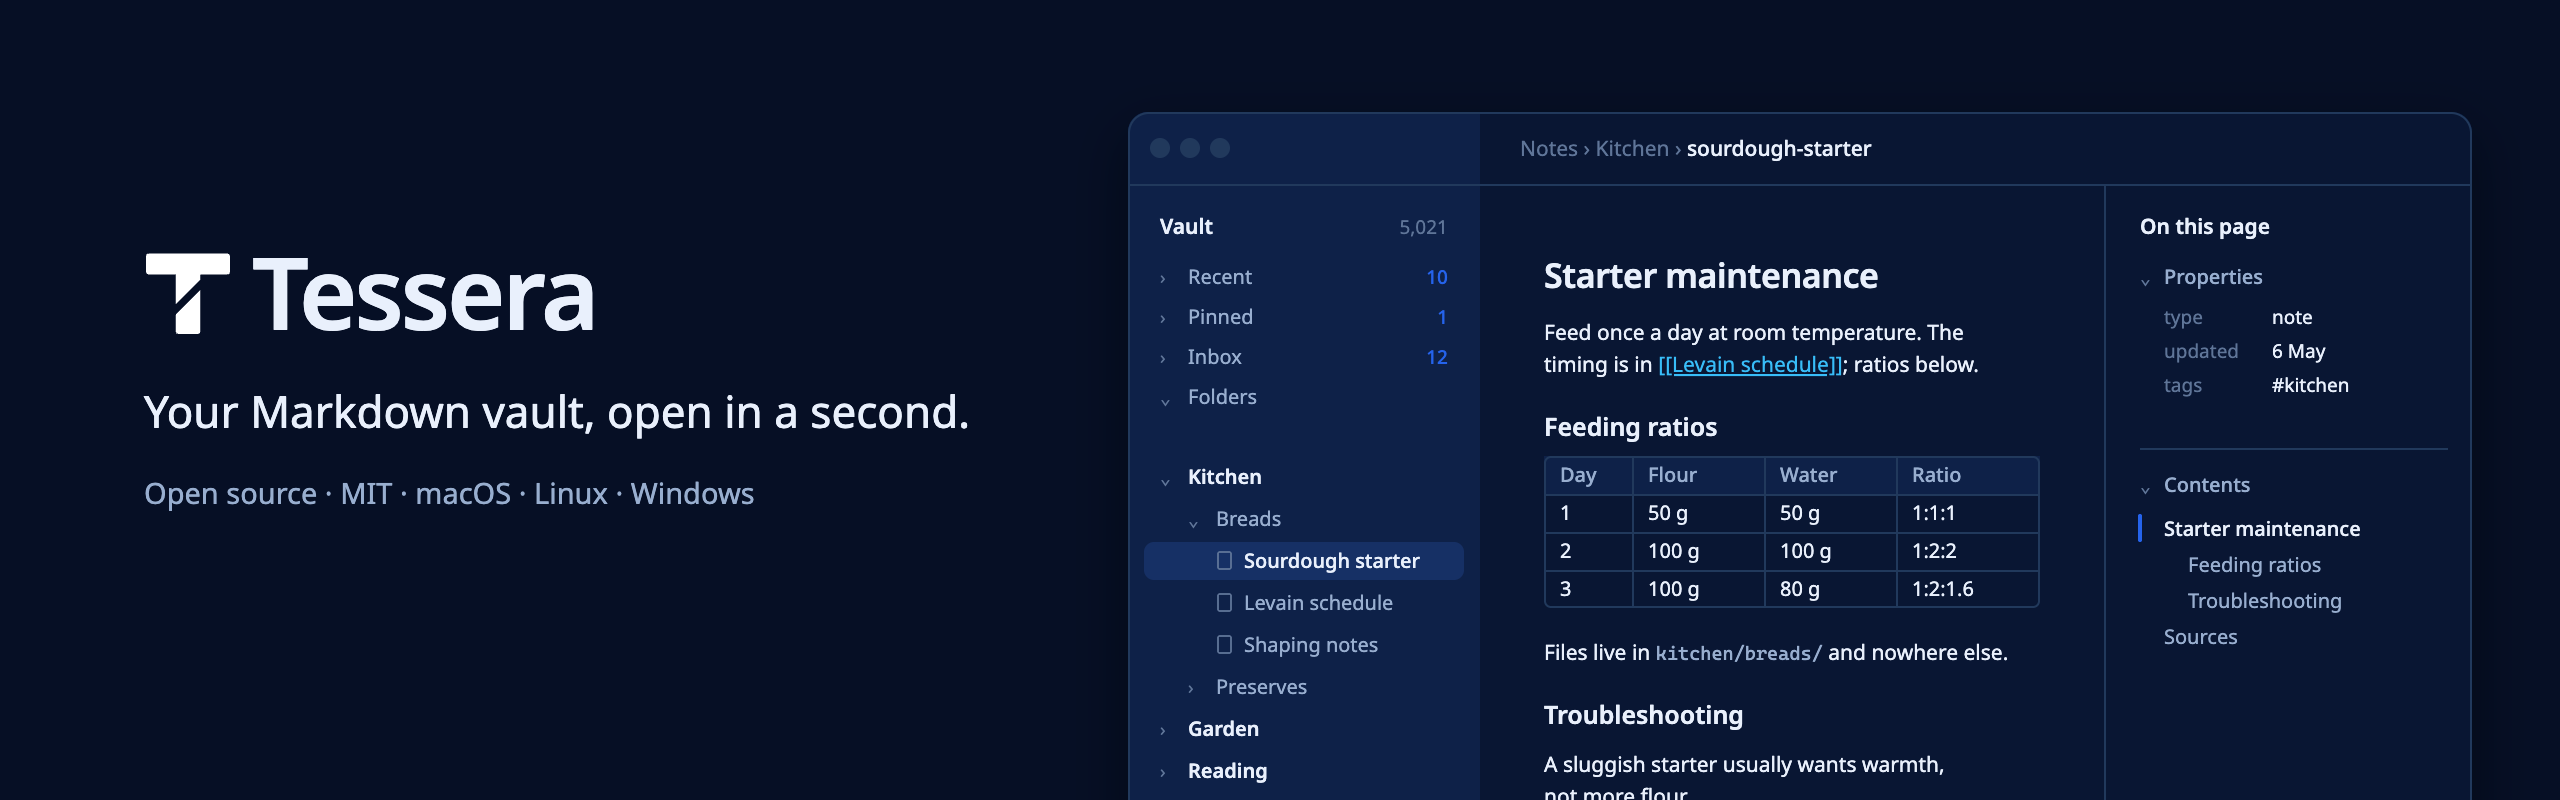
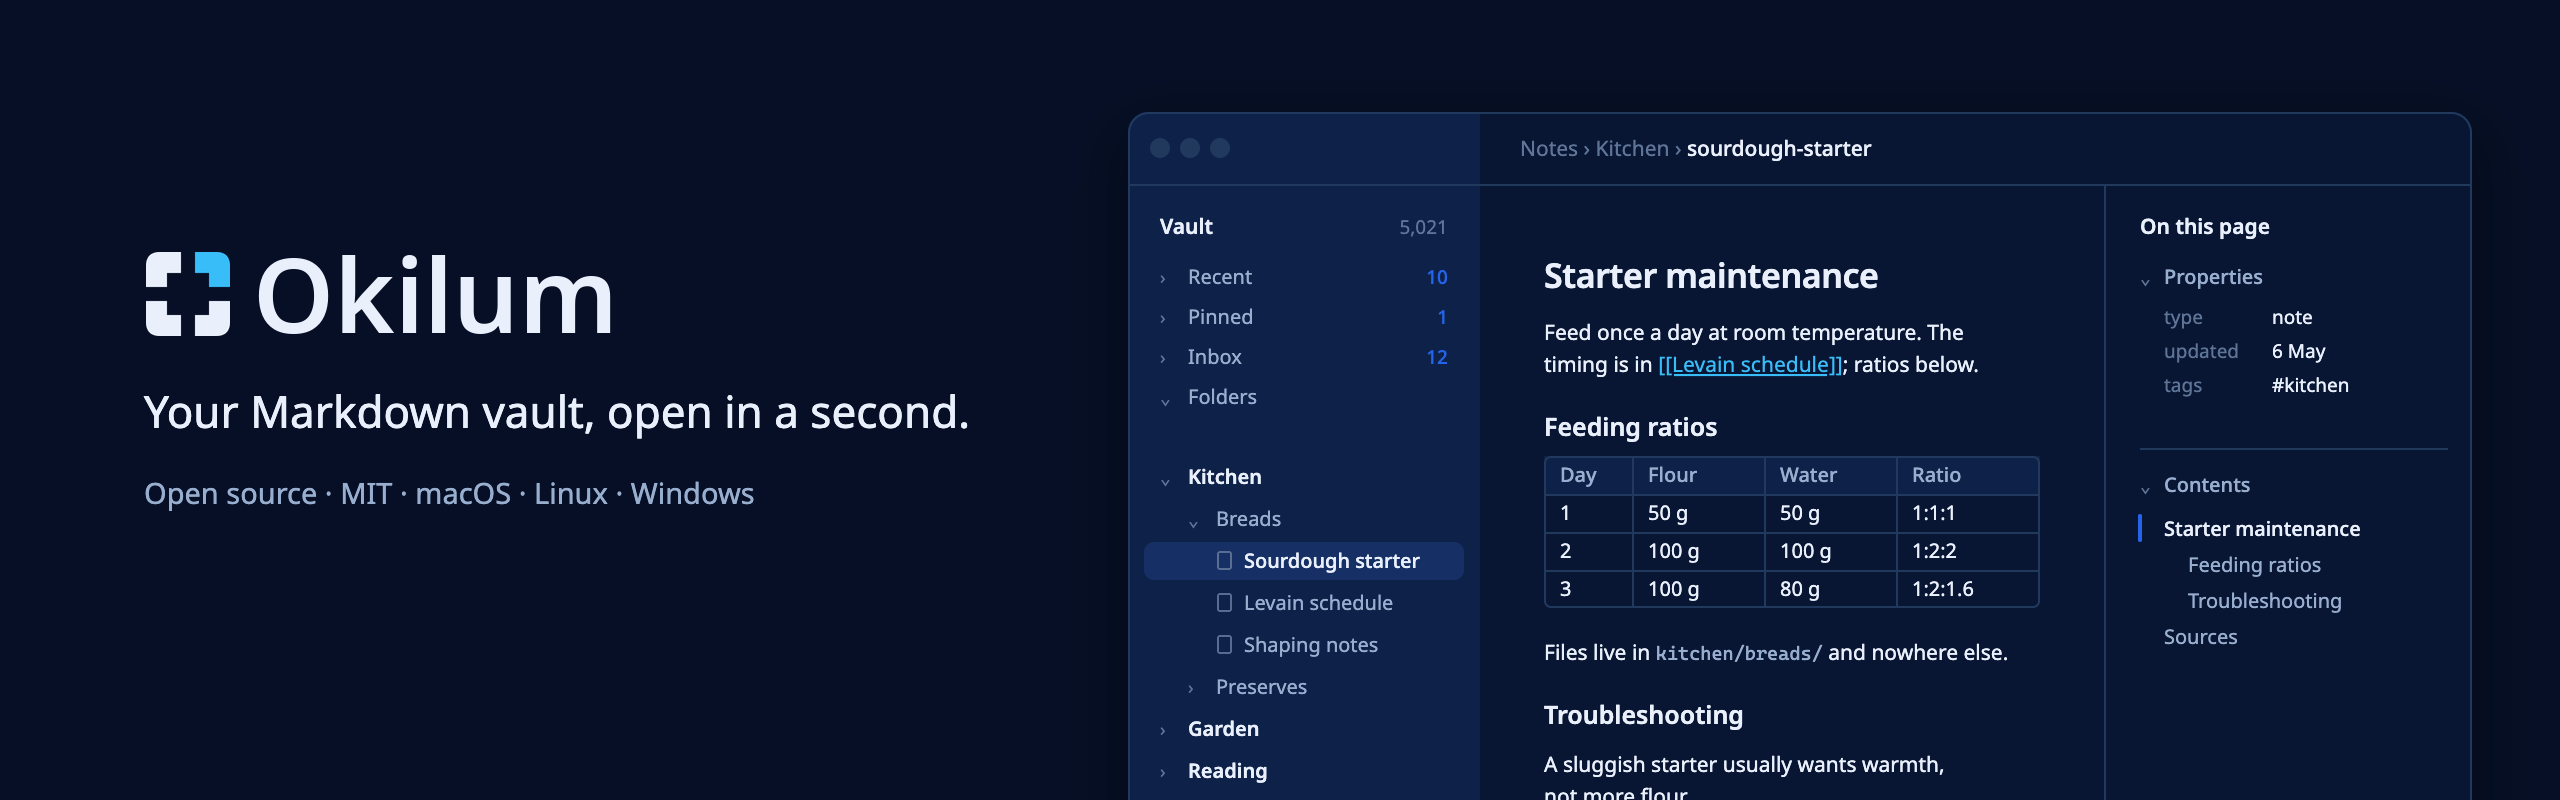
docs: show Okilum in README and design images; mark historical docs (#980)
The README hero is redrawn with the Okilum O / Kontur mark and wordmark.
The 22 design gallery screenshots are re-captured from the prototype,
which already says Okilum. Archive, research, upstream and experiment
documents that name Tessera get a historical banner. The rebrand
runbook records that markers, sync identities and the Sparkle key
are now renamed too.

Changed region(s): [[0.0312, 0.3125, 0.25, 0.4375]]

diff --git a/docs/rebrand-okilum.md b/docs/rebrand-okilum.md
@@ -30,21 +30,25 @@ Kept on purpose (legacy compatibility; listed in the generated report):
 - **Persisted schema ids and namespaces** (`tessera-…/vN`, `tessera/…/vN`).
   Renaming them changes readers and deterministic ids. New schema versions are
   separate, explicit migrations.
-- **Recovery and file markers** (`.tessera-save-…`, `.tessera-source-…`,
-  `.tessera-index`) and **internal URL forms** (`tessera://`, `tessera-asset://`).
-  Users do not see them (owner decision 5); renaming them needs a reader for both
-  forms, so it is a separate, later change.
-- **Sync identities** (launchd label, Windows scheduled task and pipe, systemd
-  units): moved by the sync owner with a stop/handover, never by text replace.
-- **Sparkle beta preference key** (`TesseraReceiveBetaBuilds`): Okilum has a new
-  bundle ID, so this key starts empty anyway; renamed with the channel work.
+- **Internal URL forms** (`tessera://`, `tessera-asset://`): never shown to
+  users; renaming them needs a reader for both forms.
 - **Brand assets** (`crates/okilum-shell/assets/brand/`): pinned by a hash
   manifest to the brand repository. The new Okilum symbol is imported with
   `scripts/brand-assets.py` as its own change, not by renaming text.
+  `scripts/rebrand/check_brand.py` keeps them, and every tracked image, free of
+  the old mark; known Tessera images are listed in
+  `scripts/rebrand/tessera-images.sha256`.
 - **History and fixtures**: `docs/archive`, `docs/research`, `docs/upstream`,
-  `experiments`, `fixtures`, test fixture trees, vendor patches. Fixtures inside
+  `experiments`, `fixtures`, test fixture trees, vendor patches. Documents
+  there that name Tessera carry a "Historical document" banner. Fixtures inside
   renamed crates move with the crate but keep their contents (legacy formats are
   test input).
+
+Recovery and file markers (`.okilum-save-…`, `.okilum-source-…`,
+`.okilum-index`), sync identities (launchd label, Windows scheduled task and
+pipe, systemd units) and the Sparkle beta key were first kept, then renamed in
+#980: the owner chose a clean start, so Okilum has no Tessera data or sync
+setup to stay compatible with.
 
 All `TESSERA_*` variables become `OKILUM_*` without a fallback: Okilum starts
 clean, and the old names are build-time or test-only except a few developer

diff --git a/docs/archive/managed-live-preview-native.md b/docs/archive/managed-live-preview-native.md
@@ -1,5 +1,7 @@
 # Live Preview native adapter — isolated candidate contract
 
+> **Historical document.** Written before Tessera was renamed Okilum (2026-10-09). Names, paths and links are kept as they were then.
+
 Status: bounded design review, not implemented or accepted natively. Parent: [#211](https://git.oklabs.uk/BeFeast/tessera/issues/211). Root creates the child issue after reviewing this scope. This document permits a synthetic native fixture first; it does not wire BrainView, Save, recovery or backend APIs.
 
 Reviewed source: Tessera `0748c9e32a3f996895223b37e42164d050b42617`, vendor `928c3eb776a3d733d9b771f7dea27a6a79242ced` with the current committed patch set. Foundation #212 is reviewed; classifier #214 remains a separate lane. Overall behavior remains governed by [managed-live-preview.md](/home/example/worktrees/tessera/live-preview-contract/docs/managed-live-preview.md).

diff --git a/experiments/retrieval-selection-204/REPORT.md b/experiments/retrieval-selection-204/REPORT.md
@@ -1,5 +1,7 @@
 # Verified experience selection: measured diagnostic (#204)
 
+> **Historical document.** Written before Tessera was renamed Okilum (2026-10-09). Names, paths and links are kept as they were then.
+
 **Decision: Keep feature disabled.** Seven applicable cases improved, but one invalid baseline response blocks advancement under the frozen contract.
 
 In c15 (obsolete callback incident), the baseline chose the ordinary `retry-submit` action but put `manual-pin` in `constraint_ids` and left `evidence_ids` empty. This is an unknown constraint and lacks supporting evidence, so it remains ambiguous/unsuccessful. The candidate response was valid. No label adjustment, retry or extra provider call was made.

diff --git a/docs/research/754-live-preview-stability.md b/docs/research/754-live-preview-stability.md
@@ -1,3 +1,5 @@
+> **Historical document.** Written before Tessera was renamed Okilum (2026-10-09). Names, paths and links are kept as they were then.
+
 ## P1: Live Preview changes geometry while typing, revealing and dragging
 
 Owner report: Mac beta 8326, “everything jerks / moves to different positions”. Investigated on Linux using the actual native shared Editor + production CachedProvider, main a075d27, Rust 1.99, verified vendor stack; Xvfb :127, 1240×850 window, Noto Sans/Cascadia 16 px, 24 px rows. This is an isolated native widget, not a full Reader or macOS acceptance claim. No gpui-core changes.

diff --git a/docs/archive/native-attribution221-plan.md b/docs/archive/native-attribution221-plan.md
@@ -1,5 +1,7 @@
 # Native #221 attribution plan
 
+> **Historical document.** Written before Tessera was renamed Okilum (2026-10-09). Names, paths and links are kept as they were then.
+
 Base: `d2c181ca7a998effdee82e3c1486f8fca8de3d0a` (merged #217). This is a bounded follow-up to the accepted V3 native prerequisite, not #69 benchmarking or #211 acceptance. The V3 987-byte fixture produced Source/LP first coherent trailing-marker medians of 10.326/18.370 ms; top-level submission medians were 17.875/19.9065 ms. Neither difference identifies a function or physical presentation.
 
 ## Ownership and boundary

diff --git a/experiments/retrieval-selection-204/README.md b/experiments/retrieval-selection-204/README.md
@@ -1,5 +1,7 @@
 # Verified experience selection experiment (#204)
 
+> **Historical document.** Written before Tessera was renamed Okilum (2026-10-09). Names, paths and links are kept as they were then.
+
 Repository-only diagnostic experiment inspired by the pinned OpenExecutive research
 `3c379362809016ed117e597a74f083914e83fd3e`. No product/runtime feature is enabled.
 It asks whether an explicitly scoped historical incident can improve a next-step

diff --git a/docs/upstream/0019.md b/docs/upstream/0019.md
@@ -1,5 +1,7 @@
 # Preserve TextView selection through opt-in layout controls
 
+> **Historical document.** Written before Tessera was renamed Okilum (2026-10-09). Names, paths and links are kept as they were then.
+
 A Reader with draggable side panels loses its document selection twice: the
 window selection layer clears it on the splitter's MouseDown, then TextView
 clears geometric selection when its width changes. Reseeding selection after

diff --git a/docs/upstream/0042.md b/docs/upstream/0042.md
@@ -1,5 +1,7 @@
 # Give multiline TextView link tooltips secondary detail text
 
+> **Historical document.** Written before Tessera was renamed Okilum (2026-10-09). Names, paths and links are kept as they were then.
+
 Patch 0042 refines the application-owned `LinkTooltip` introduced by 0018 and
 shared with the external-link marker by 0029. A tooltip such as
 `File not found\n/home/god/missing-787.json` previously rendered both lines with

diff --git a/docs/research/755-live-preview-idle.md b/docs/research/755-live-preview-idle.md
@@ -1,3 +1,5 @@
+> **Historical document.** Written before Tessera was renamed Okilum (2026-10-09). Names, paths and links are kept as they were then.
+
 > Owner correction (2026-10-08): there is no idle jumping. Retain this investigation and counters as evidence; prioritize #754 interaction-triggered reveal, reflow, anchoring and observed save echo. The idle-cycle hypothesis is deprioritized.
 
 ## Native idle investigation (2026-10-08)

diff --git a/docs/upstream/0008.md b/docs/upstream/0008.md
@@ -1,5 +1,7 @@
 # Search rendered TextView text without modifying Markdown or HTML
 
+> **Historical document.** Written before Tessera was renamed Okilum (2026-10-09). Names, paths and links are kept as they were then.
+
 Tessera's find and search jump previously inserted inline-code delimiters into
 Markdown source. Searching a code fence displayed those literal delimiters;
 inline code was broken, and HTML had no visible highlights.

diff --git a/docs/research/477-inline-pdf.md b/docs/research/477-inline-pdf.md
@@ -1,5 +1,7 @@
 # Research: inline PDF viewing (#477)
 
+> **Historical document.** Written before Tessera was renamed Okilum (2026-10-09). Names, paths and links are kept as they were then.
+
 Status: research only. No product code changes. This document informs a go/no-go
 decision and a slice plan for reading PDFs inside Tessera. Today a PDF opens as a
 file card (on macOS, a Quick Look first-page thumbnail), and reading it means

diff --git a/docs/upstream/0030.md b/docs/upstream/0030.md
@@ -1,5 +1,7 @@
 # Report hover events for inert links
 
+> **Historical document.** Written before Tessera was renamed Okilum (2026-10-09). Names, paths and links are kept as they were then.
+
 Follow-up to the pending TextView hover API in [0029](0029.md), required by
 Tessera #546. Inert links still have useful hover actions (for example, offering
 to create a missing document). Emit hover events for them and let the application
